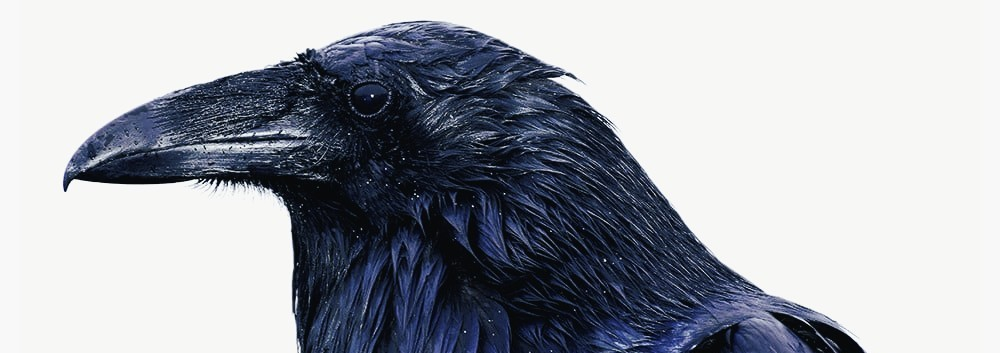
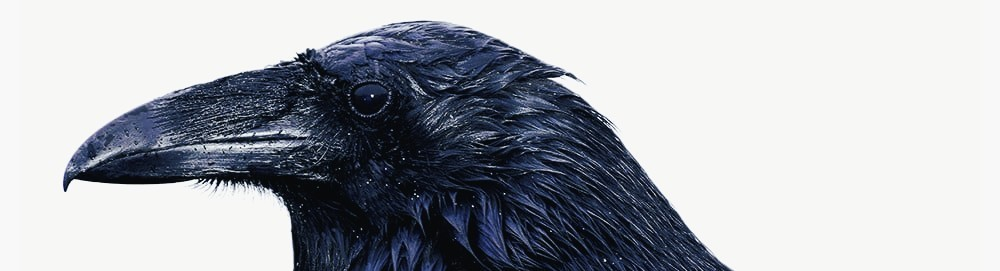
Versão Sombria

diff --git a/index.html b/index.html
@@ -110,14 +110,30 @@
 							<h2 class="h4 texto-roxo">Trecho de "O Corvo"</h2>
 							<blockquote class="blockquote mb-0">
 								<p>“ D’aquellas linhas funeraes
-<br>Que fluctuam no chão, a minha alma que chora
-         <br>Não sai mais, nunca, nunca mais!”</p>
+								<br>Que fluctuam no chão, a minha alma que chora
+         						<br>Não sai mais, nunca, nunca mais!”</p>
 								<footer class="blockquote-footer text-secondary"><cite title="O Corvo">O Corvo</cite> (tradução de Machado de Assis)</footer>
 							</blockquote>
 						</div>
 					</section>
 				</div>
 			</div>
+
+			<!--<div class="row mt-4">
+				<div class="col-12">
+					<article class="card card-corvo h-100 shadow-sm">
+						<div class="card-body p-4">
+							<h2 class="display-5 texto-roxo fw-bold">Trecho de "O Corvo"</h2>
+							<blockquote class="blockquote mb-0">
+								<p>“ D’aquellas linhas funeraes
+								<br>Que fluctuam no chão, a minha alma que chora
+         						<br>Não sai mais, nunca, nunca mais!”</p>
+								<footer class="blockquote-footer text-secondary"><cite title="O Corvo">O Corvo</cite> (tradução de Machado de Assis)</footer>
+							</blockquote>
+						</div>
+					</article>
+				</div>
+			</div>-->
 		</main>
 
 		<footer class="text-center text-secondary py-4">
